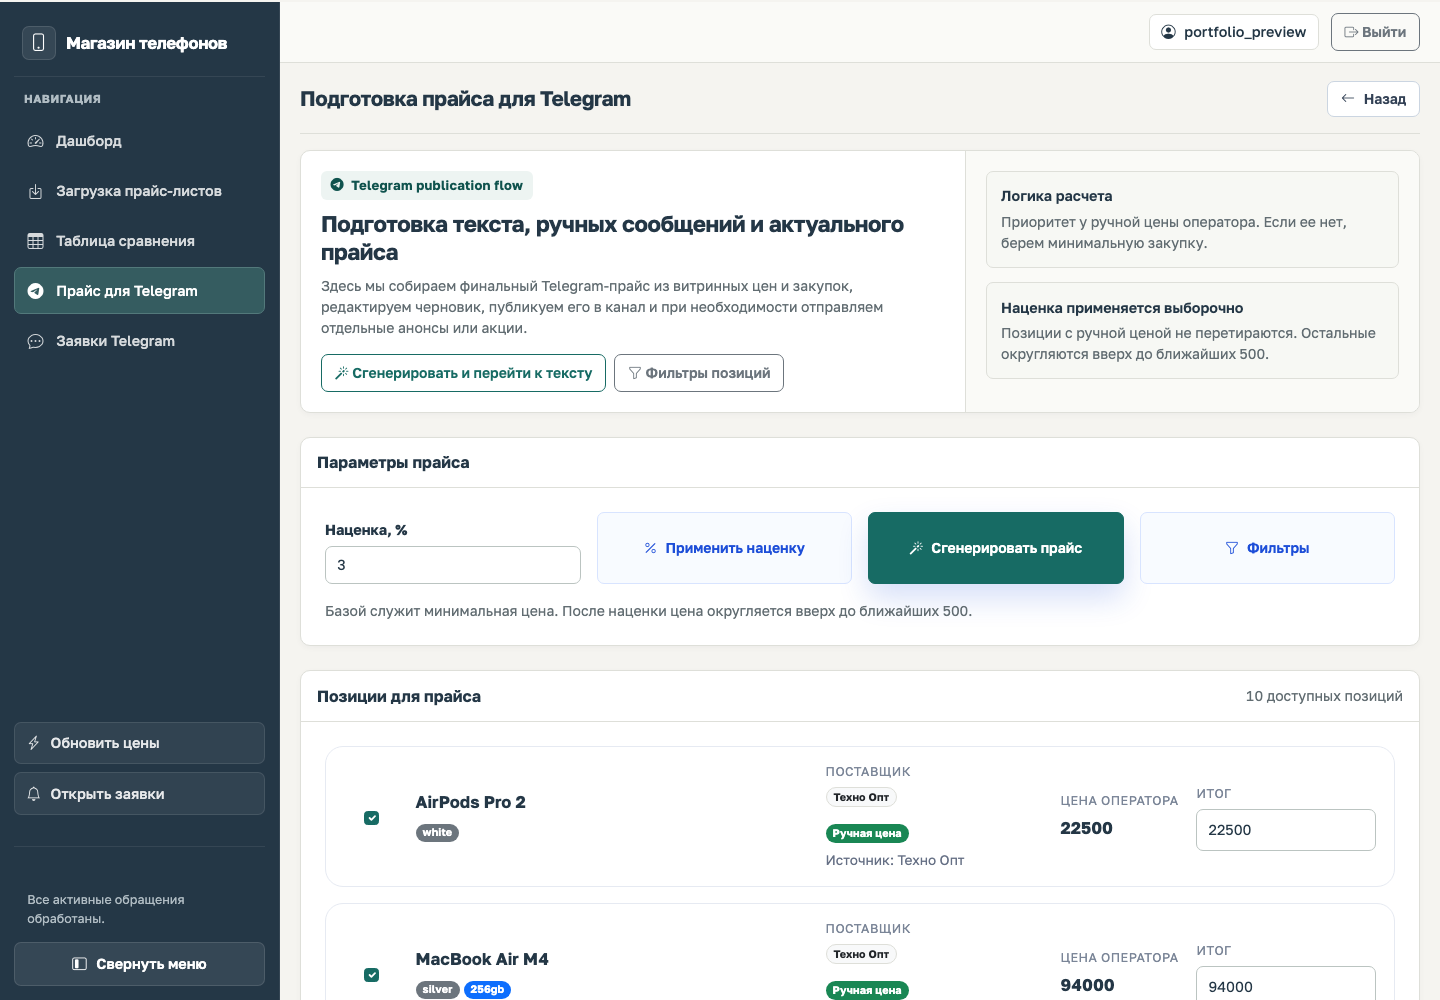
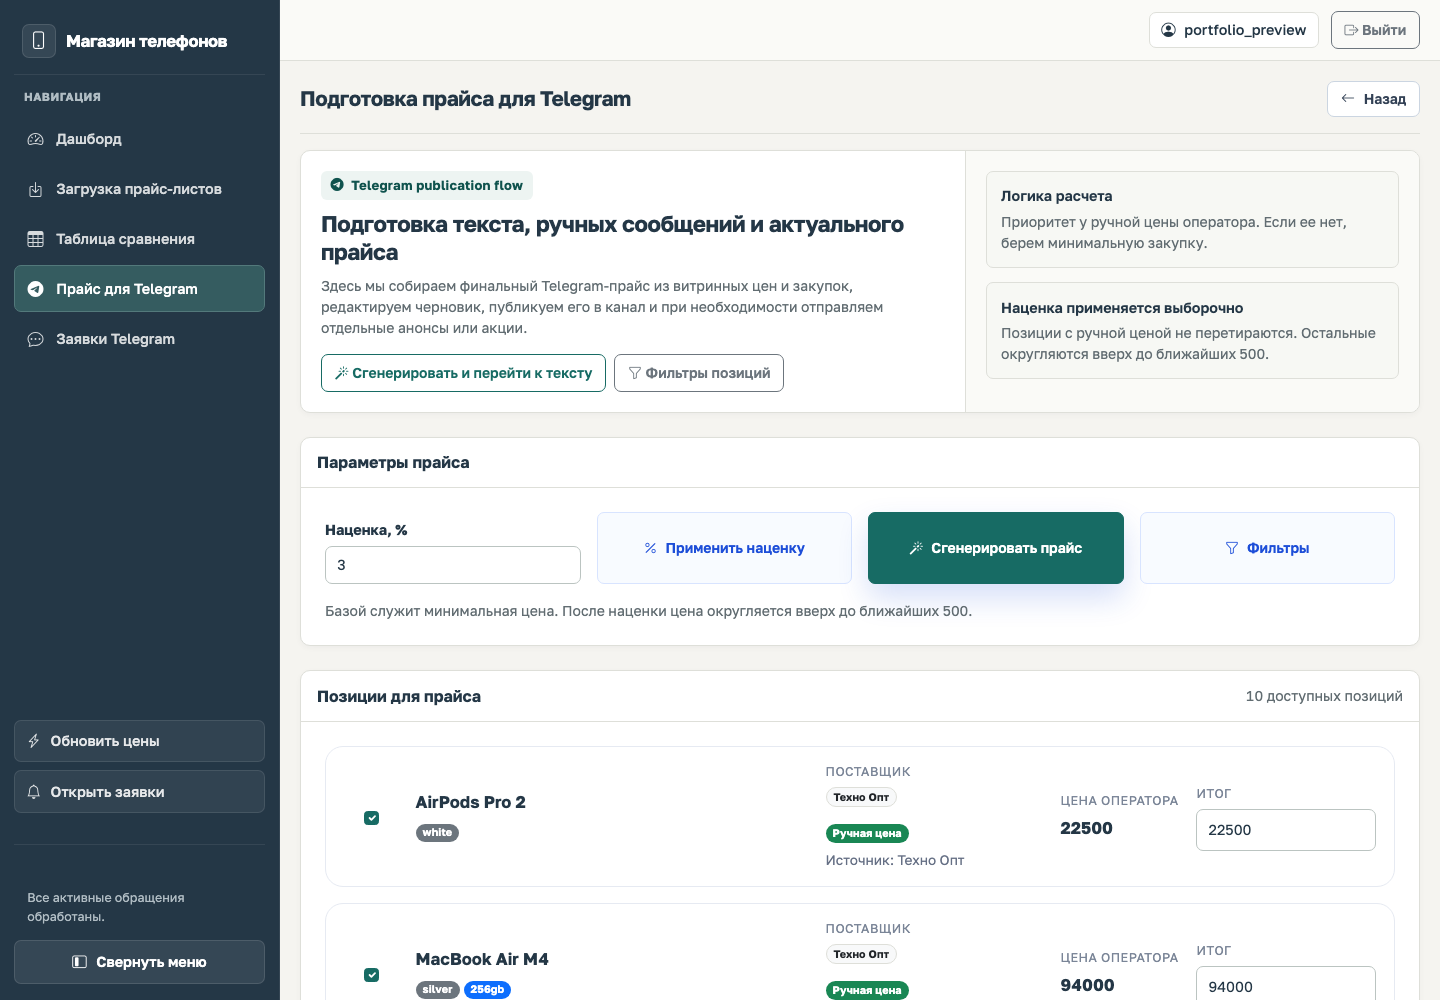
Refresh local screenshots and document operator workflow

diff --git a/scripts/capture_screenshots.py b/scripts/capture_screenshots.py
@@ -28,14 +28,14 @@ def main():
     errors = []
     with sync_playwright() as playwright:
         browser = playwright.chromium.launch()
-        context = browser.new_context(viewport={'width': 1440, 'height': 1000}, device_scale_factor=1)
+        context = browser.new_context(viewport={'width': 1440, 'height': 1000}, device_scale_factor=1, reduced_motion='reduce')
         page = context.new_page()
         page.on('pageerror', lambda error: errors.append(str(error)))
         page.goto('http://127.0.0.1:8011/login/', wait_until='networkidle')
         page.screenshot(path=str(directory / 'login.png'), full_page=True)
         context.add_cookies([{'name': settings.SESSION_COOKIE_NAME, 'value': client.cookies[settings.SESSION_COOKIE_NAME].value,
                              'domain': '127.0.0.1', 'path': '/'}])
-        pages = [('dashboard', '/operators/'), ('catalog', '/operators/upload/?mode=manual'),
+        pages = [('dashboard', '/operators/'), ('import', '/operators/upload/'), ('catalog', '/operators/upload/?mode=manual'),
                  ('comparison', '/operators/comparison/'), ('telegram-price', '/operators/telegram-price/'),
                  ('requests', '/operators/telegram-requests/')]
         for name, path in pages:
@@ -53,6 +53,8 @@ def main():
                 page.evaluate('generateTelegramText()')
                 text = page.locator('#telegramOutput').input_value()
                 assert 'Galaxy S25' in text and '17 Pro Max' in text, text
+                page.evaluate("window.scrollTo({top: document.getElementById('telegramOutputCard').getBoundingClientRect().top + scrollY - 80, behavior: 'instant'})")
+                page.screenshot(path=str(directory / 'telegram-output.png'), full_page=False)
                 page.evaluate('window.scrollTo(0, 0)')
             page.screenshot(path=str(directory / f'{name}.png'), full_page=False)
             print(f'OK {name}')

diff --git a/README.md b/README.md
@@ -8,20 +8,40 @@
 ## Посмотреть без запуска
 
 Скриншоты работающего приложения сняты на отдельной базе с вымышленными данными.
+Ниже показан путь оператора: загрузка предложений, обновление цен, сравнение,
+подготовка публикации и ответ покупателю. Изображения можно открыть в полном размере.
+
+### Импорт прайс-листа
+
+Загрузка файла или текста от выбранного поставщика.
+
+![Загрузка прайс-листа](docs/screenshots/import.png)
 
 ### Каталог и ручные цены
+
+Витринные цены, источник предложения и комментарий оператора в одной таблице.
 
 ![Каталог и ввод цен](docs/screenshots/catalog.png)
 
 ### Сравнение поставщиков
 
+Предложения поставщиков по каждой модели с выделением минимальной цены.
+
 ![Таблица сравнения](docs/screenshots/comparison.png)
 
 ### Подготовка прайса
 
+Выбор позиций и наценки перед генерацией сообщения.
+
 ![Конструктор прайса](docs/screenshots/telegram-price.png)
 
+Готовый текст можно проверить и отредактировать перед отправкой в канал.
+
+![Готовый текст публикации](docs/screenshots/telegram-output.png)
+
 ### Обращения покупателей
+
+Раскрытая заявка с историей переписки и формой ответа через бота.
 
 ![Заявки Telegram](docs/screenshots/requests.png)
 
